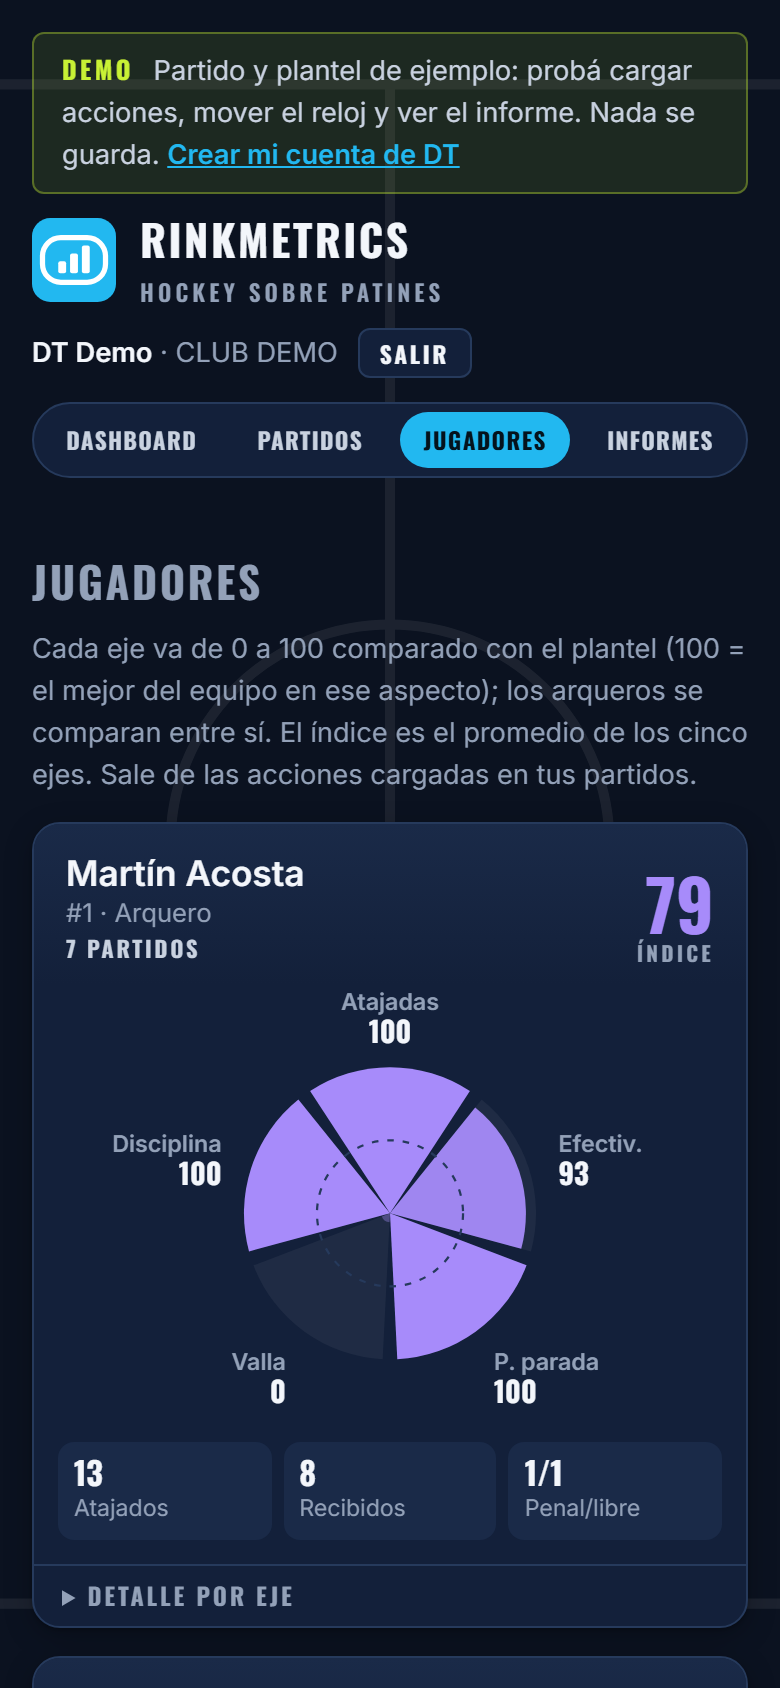
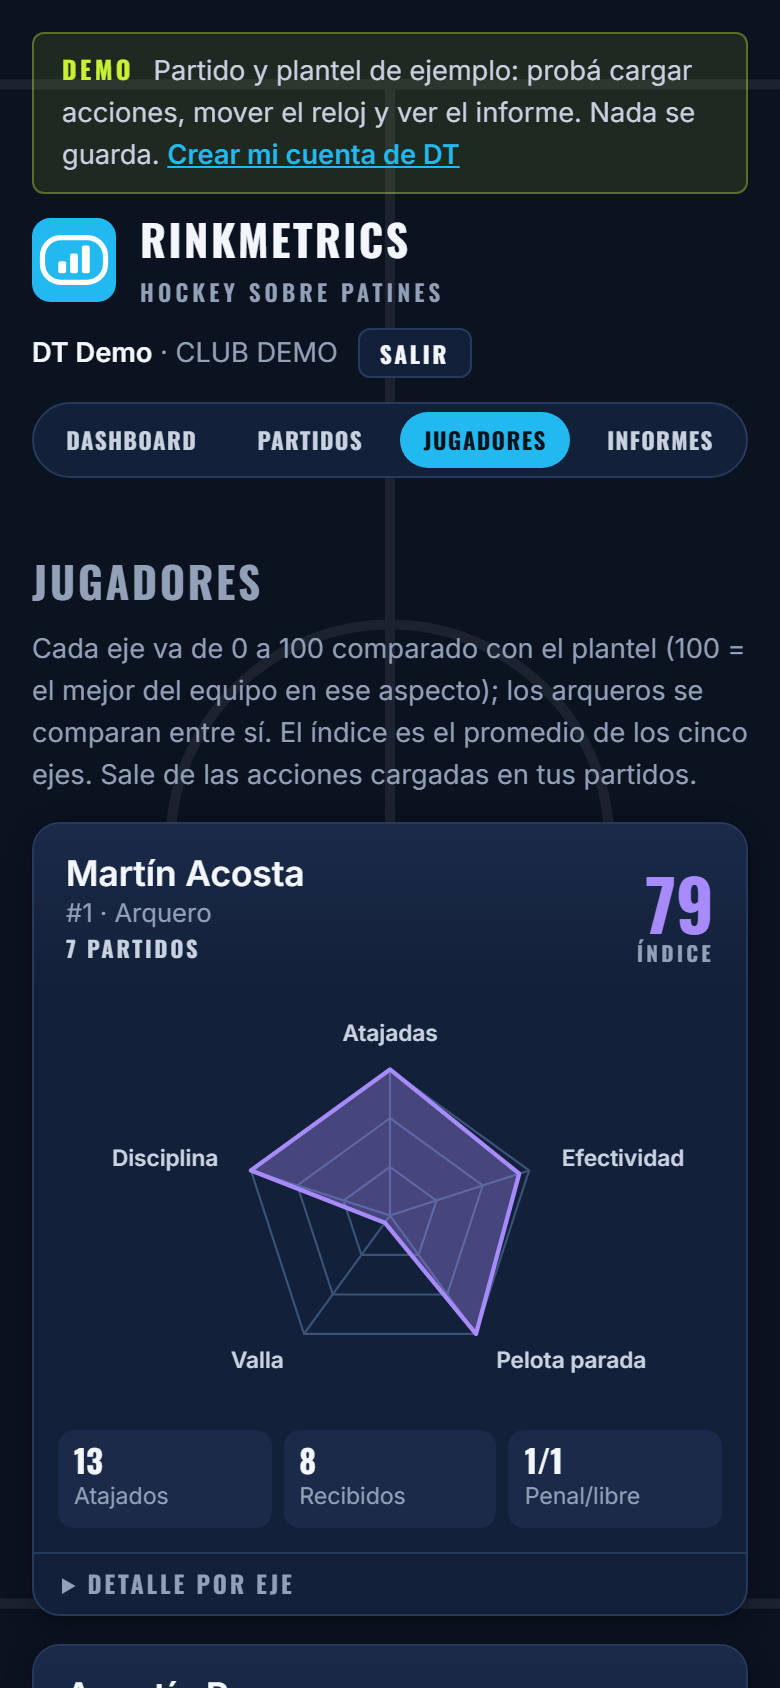
Ficha del jugador: vuelve el pentágono de cinco ejes
Se deja la rueda y vuelve el gráfico inicial (pentágono, violeta en los
arqueros), con el resto de la ficha como está. Capturas, galería y README al día.

diff --git a/src/main/resources/static/js/dt-fichas.js b/src/main/resources/static/js/dt-fichas.js
@@ -159,33 +159,26 @@ const DtFichas = (() => {
 
     const esc = s => String(s).replace(/[&<>"]/g, c => ({"&": "&amp;", "<": "&lt;", ">": "&gt;", '"': "&quot;"}[c]));
 
-    /**
-     * Rueda de la ficha: una porción por eje, que arranca arriba y sigue en el sentido del reloj. El largo de cada
-     * porción es el puntaje (0 a 100) y, cuanto más alto, más intenso el color; el círculo punteado marca el 50.
-     */
-    function rueda(ejesFicha, arquero) {
-        const W = 300, H = 200, cx = W / 2, cy = 100, R = 66, n = ejesFicha.length, hueco = 0.05;
-        const tono = arquero ? [167, 139, 250] : [34, 184, 240];
-        const titulo = ejesFicha.map(e => `${e.nombre} ${e.puntaje}`).join(", ");
-        const punto = (a, r) => [(cx + r * Math.cos(a)).toFixed(1), (cy + r * Math.sin(a)).toFixed(1)];
-        const porcion = (a0, a1, r) => {
-            const [x0, y0] = punto(a0, r), [x1, y1] = punto(a1, r);
-            return `M${cx},${cy}L${x0},${y0}A${r},${r} 0 0 1 ${x1},${y1}Z`;
+    /** Pentágono de la ficha: anillos al 33, 66 y 100 % y el área del jugador. */
+    function pentagono(ejesFicha) {
+        const cx = 160, cy = 104, R = 68;
+        const punto = (i, r) => {
+            const ang = -Math.PI / 2 + i * 2 * Math.PI / 5;
+            return [cx + r * Math.cos(ang), cy + r * Math.sin(ang)];
         };
-        const partes = ejesFicha.map((e, i) => {
-            const a0 = -Math.PI / 2 - Math.PI / n + i * 2 * Math.PI / n + hueco, a1 = a0 + 2 * Math.PI / n - 2 * hueco;
-            const medio = (a0 + a1) / 2, r = Math.max(4, R * e.puntaje / 100);
-            const brillo = (0.35 + 0.65 * e.puntaje / 100).toFixed(2);
-            const [lx, ly] = punto(medio, R + 14).map(Number);
-            const ancla = Math.cos(medio) > 0.3 ? "start" : Math.cos(medio) < -0.3 ? "end" : "middle";
-            const y = Math.sin(medio) < -0.5 ? ly - 12 : Math.sin(medio) > 0.5 ? ly + 6 : ly - 3;
-            return `<path class="fondo" d="${porcion(a0, a1, R)}"/>
-                <path d="${porcion(a0, a1, r)}" fill="rgba(${tono.join(",")},${brillo})"><title>${esc(e.nombre)}: ${e.puntaje} · ${esc(e.texto)}</title></path>
-                <text class="nombre" x="${lx}" y="${y.toFixed(1)}" text-anchor="${ancla}">${esc(e.corto)}</text>
-                <text class="puntaje" x="${lx}" y="${(y + 15).toFixed(1)}" text-anchor="${ancla}">${e.puntaje}</text>`;
+        const poly = r => [0, 1, 2, 3, 4].map(i => punto(i, r).map(n => n.toFixed(1)).join(",")).join(" ");
+        const area = ejesFicha.map((e, i) => punto(i, R * Math.max(0.06, e.puntaje / 100)).map(n => n.toFixed(1)).join(",")).join(" ");
+        const etiquetas = ejesFicha.map((e, i) => {
+            const [x, y] = punto(i, R + 16);
+            const ancla = Math.abs(x - cx) < 4 ? "middle" : x > cx ? "start" : "end";
+            return `<text x="${x.toFixed(1)}" y="${(y + 3).toFixed(1)}" text-anchor="${ancla}">${esc(e.nombre)}</text>`;
         }).join("");
-        return `<svg class="rueda" viewBox="0 0 ${W} ${H}" role="img" aria-label="${esc(titulo)}"><title>${esc(titulo)}</title>
-            ${partes}<circle class="guia" cx="${cx}" cy="${cy}" r="${R / 2}"/></svg>`;
+        const titulo = ejesFicha.map(e => `${e.nombre} ${e.puntaje}`).join(", ");
+        return `<svg class="pentagono" viewBox="0 0 320 200" role="img" aria-label="${esc(titulo)}"><title>${esc(titulo)}</title>
+            <g class="anillos">${[1, 2 / 3, 1 / 3].map(f => `<polygon points="${poly(R * f)}"/>`).join("")}
+            ${[0, 1, 2, 3, 4].map(i => { const [x, y] = punto(i, R); return `<line x1="${cx}" y1="${cy}" x2="${x.toFixed(1)}" y2="${y.toFixed(1)}"/>`; }).join("")}</g>
+            <polygon class="area" points="${area}"/>
+            <g class="etiquetas">${etiquetas}</g></svg>`;
     }
 
     /** Estado de los partidos: una barra por estado. */
@@ -214,5 +207,5 @@ const DtFichas = (() => {
                 <text class="eje" x="${x.toFixed(1)}" y="${H - 8}" text-anchor="middle">${meses[i].etiqueta}</text>`).join("")}</svg>`;
     }
 
-    return {calcular, dashboard, rueda, barrasEstado, lineaMeses};
+    return {calcular, dashboard, pentagono, barrasEstado, lineaMeses};
 })();

diff --git a/src/main/resources/static/css/app.css b/src/main/resources/static/css/app.css
@@ -574,13 +574,13 @@ nav.secciones a { white-space: nowrap; }
 .ficha.arquero .ficha-indice b { color: #a78bfa; }
 .ficha.sin-datos .ficha-indice b { color: var(--muted); }
 .ficha-indice small { display: block; margin-top: 2px; font: 700 .65rem/1 var(--display); letter-spacing: .16em; text-transform: uppercase; }
-.ficha-rueda { padding: 4px 12px 0; }
-.ficha-rueda .dt-vacio { padding: 30px 0; text-align: center; }
-.rueda { width: 100%; max-width: 340px; height: auto; display: block; margin: 0 auto; }
-.rueda .fondo { fill: rgba(255, 255, 255, .05); }
-.rueda .guia { fill: none; stroke: var(--line); stroke-width: 1; stroke-dasharray: 3 4; }
-.rueda .nombre { font: 600 10.5px var(--body); fill: var(--muted); }
-.rueda .puntaje { font: 700 13px var(--display); fill: var(--ink); }
+.ficha-pentagono { padding: 4px 6px 0; }
+.ficha-pentagono .dt-vacio { padding: 30px 0; text-align: center; }
+.pentagono { width: 100%; max-width: 360px; height: auto; display: block; margin: 0 auto; }
+.pentagono .anillos polygon, .pentagono .anillos line { fill: none; stroke: #3a5378; stroke-width: 1; }
+.pentagono .area { fill: rgba(34, 184, 240, .35); stroke: var(--accent); stroke-width: 2; stroke-linejoin: round; }
+.ficha.arquero .pentagono .area { fill: rgba(167, 139, 250, .35); stroke: #a78bfa; }
+.pentagono .etiquetas { font: 600 10.5px var(--body); fill: var(--ink-2); }
 .ficha-datos { display: grid; grid-template-columns: repeat(3, minmax(0, 1fr)); gap: 6px; padding: 4px 12px 12px; }
 .ficha-datos div { padding: 6px 8px; border-radius: 8px; background: var(--panel-2); }
 .ficha-datos b { display: block; font: 700 1rem/1.2 var(--display); color: var(--ink); }

diff --git a/src/main/resources/static/js/dt.js b/src/main/resources/static/js/dt.js
@@ -755,7 +755,7 @@
         }
     }
 
-    /** Ficha del jugador: encabezado con el índice, rueda de los cinco ejes, datos clave y el detalle por eje. */
+    /** Ficha del jugador: encabezado con el índice, pentágono de los cinco ejes, datos clave y el detalle por eje. */
     function ficha(f, equipo) {
         const card = el("article", "ficha" + (f.arquero ? " arquero" : "") + (f.indice == null ? " sin-datos" : ""));
         const head = el("header", "ficha-head");
@@ -766,9 +766,9 @@
         const idx = el("div", "ficha-indice");
         idx.append(el("b", null, f.indice == null ? "–" : String(f.indice)), el("small", null, "Índice"));
         head.append(quien, idx);
-        const graf = el("div", "ficha-rueda");
+        const graf = el("div", "ficha-pentagono");
         if (f.indice == null) graf.append(el("p", "dt-vacio", "Sin acciones cargadas todavía."));
-        else graf.innerHTML = DtFichas.rueda(f.ejes, f.arquero);
+        else graf.innerHTML = DtFichas.pentagono(f.ejes);
         const e = Object.fromEntries(f.ejes.map(x => [x.clave, x]));
         const datos = f.arquero
             ? [[`${e.efectividad.a}`, "Atajados"], [`${e.efectividad.b}`, "Recibidos"],

diff --git a/src/main/resources/static/dt-inicio.html b/src/main/resources/static/dt-inicio.html
@@ -97,7 +97,7 @@
                 <figcaption><b>Dashboard general</b> Totales, estado de los partidos, evolución mes a mes y próximos partidos.</figcaption>
             </figure>
             <figure>
-                <img src="/img/demo/jugadores.png" alt="Fichas de los jugadores: índice, rueda de cinco ejes y datos clave" loading="lazy" width="1920" height="1440">
+                <img src="/img/demo/jugadores.png" alt="Fichas de los jugadores: índice, pentágono de cinco ejes y datos clave" loading="lazy" width="1920" height="1440">
                 <figcaption><b>Ficha de cada jugador</b> Índice y cinco ejes comparados con el plantel; los arqueros, con sus propios ejes.</figcaption>
             </figure>
             <figure>

diff --git a/README.md b/README.md
@@ -251,7 +251,7 @@ perfil decide de dónde salen los clubes, las categorías, los jugadores y los i
   - **Dashboard general:** jugadores del plantel, partidos cargados y del mes; estado de los partidos (programados =
     creados con fecha futura y sin iniciar, en juego, finalizados); partidos jugados por mes (los últimos 6) y los
     próximos partidos.
-  - **Jugadores:** la ficha de cada uno, con índice (0 a 100) y una rueda de cinco ejes (una porción por eje, más larga cuanto mejor) comparados con el plantel
+  - **Jugadores:** la ficha de cada uno, con índice (0 a 100) y un pentágono de cinco ejes comparados con el plantel
     (100 = el mejor del equipo): ataque, precisión, desequilibrio (faltas recibidas), recuperación (balance con las
     pérdidas) y disciplina. Los arqueros se comparan entre sí con sus ejes: atajadas, efectividad, pelota parada,
     valla y disciplina. Todo se calcula en el navegador (`js/dt-fichas.js`) con `GET /api/dt/acciones` (las acciones
